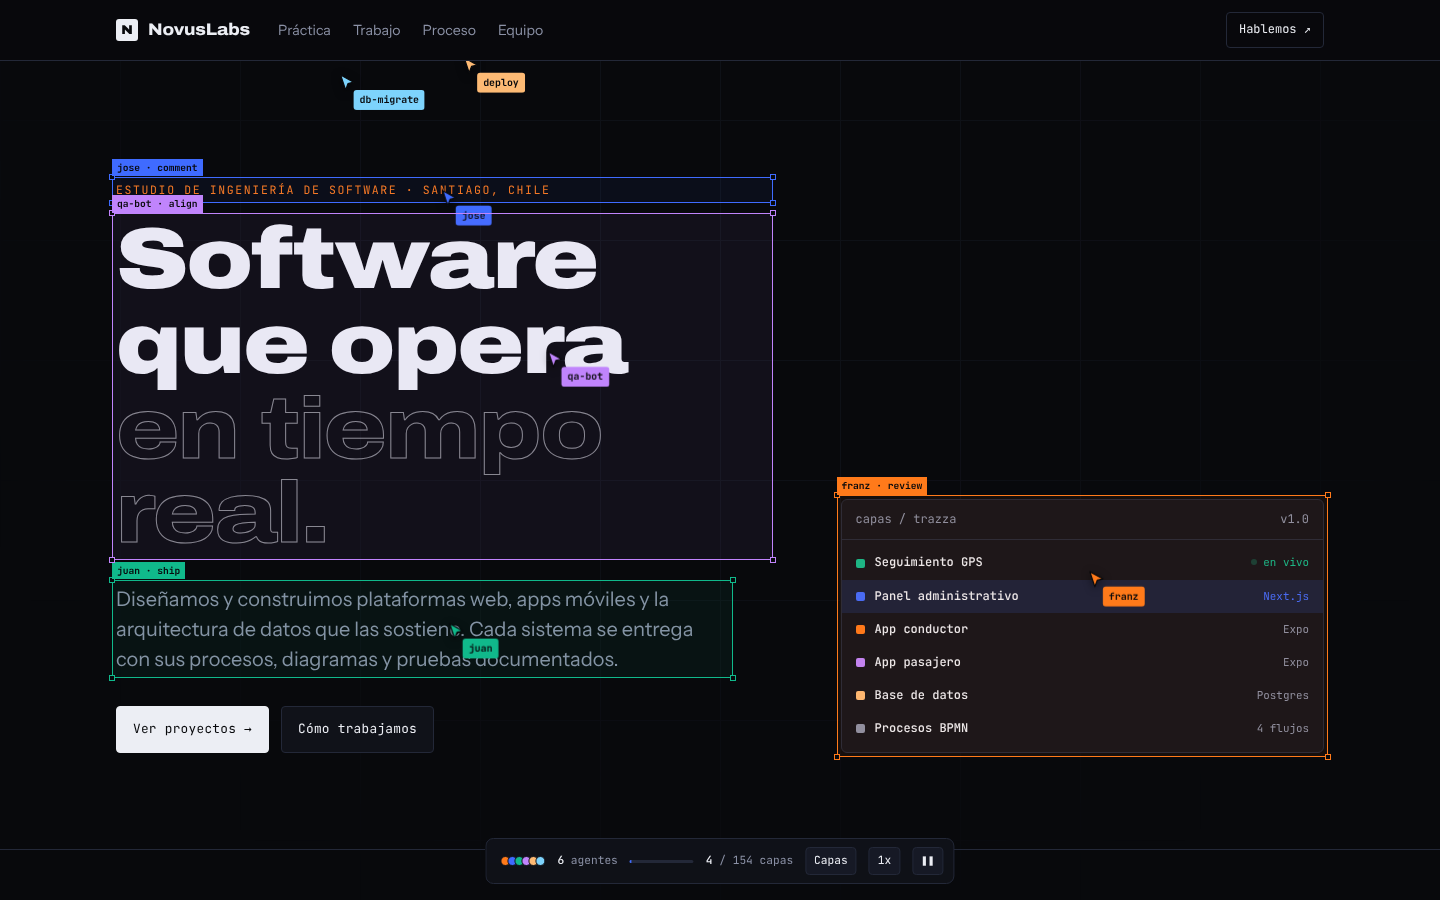
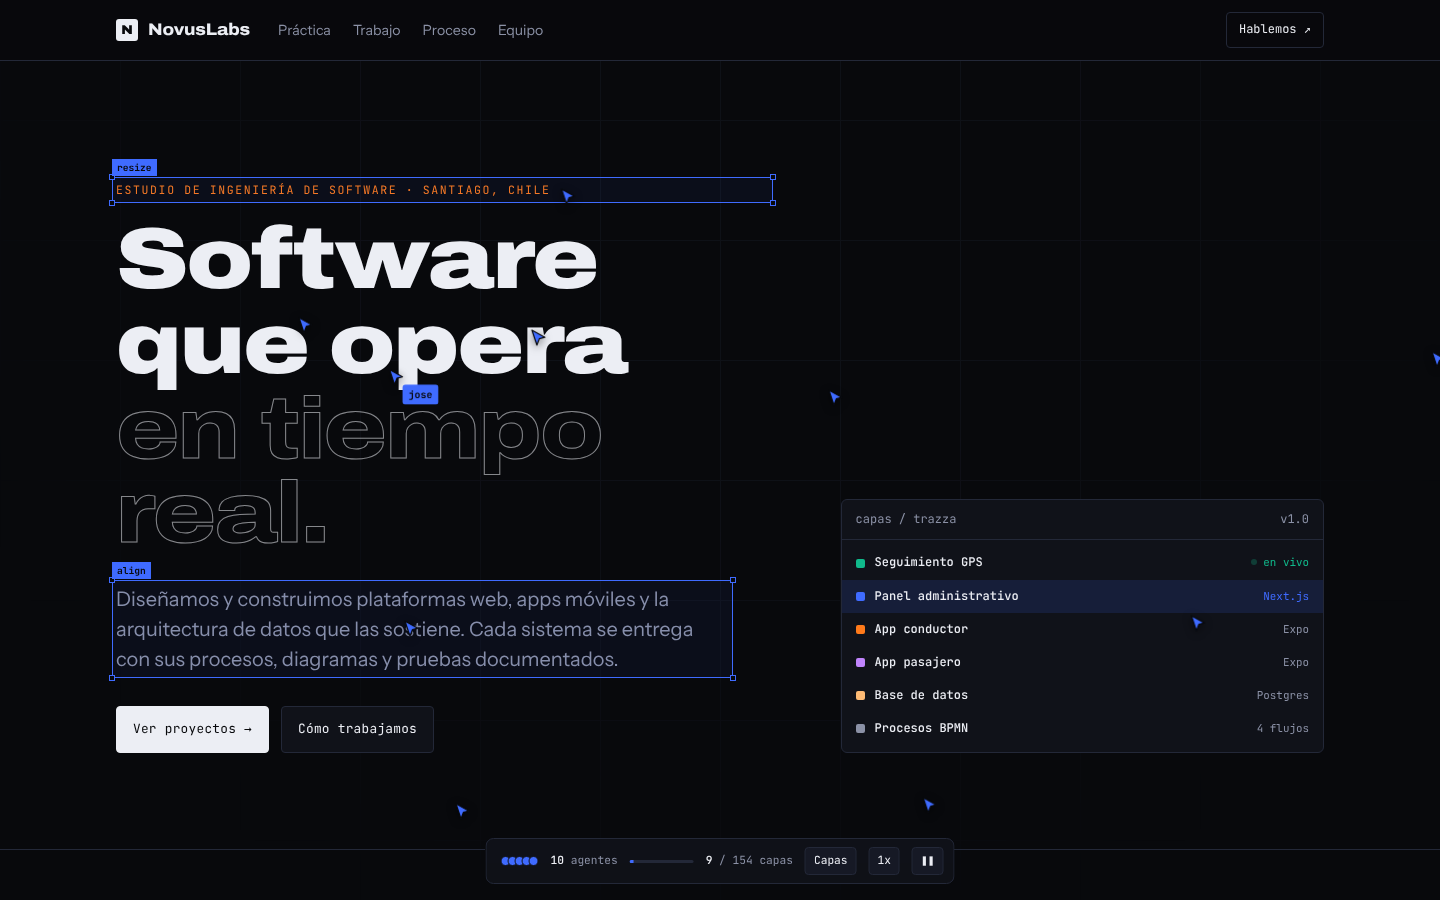
Dejar solo el cursor de José y clones sin nombre
Claude-Session: https://claude.ai/code/session_01FAH7i64zCCiy8n3abzcpGf

diff --git a/NovusLabs/index.html b/NovusLabs/index.html
@@ -523,7 +523,7 @@ body.wire .hero h1 .ghost{-webkit-text-stroke:1px var(--signal)}
 
 <div class="hud" role="toolbar" aria-label="Controles de los agentes">
   <span class="dots" id="hud-dots"></span>
-  <span><b id="hud-count">6</b> agentes</span>
+  <span><b id="hud-count">10</b> agentes</span>
   <span class="bar" aria-hidden="true"><i id="hud-bar"></i></span>
   <span class="lyr"><b id="hud-layers">0</b> / <span id="hud-total">0</span> capas</span>
   <button type="button" id="btn-wire" aria-pressed="false">Capas</button>
@@ -536,14 +536,10 @@ body.wire .hero h1 .ghost{-webkit-text-stroke:1px var(--signal)}
   var reduce = window.matchMedia && matchMedia('(prefers-reduced-motion: reduce)').matches;
   var layer = document.getElementById('agents');
   var targets = Array.prototype.slice.call(document.querySelectorAll('[data-agent]'));
-  var TEAM = [
-    {name:'franz', c:'#ff7a1a'},
-    {name:'jose', c:'#3f6bff'},
-    {name:'juan', c:'#10b98b'},
-    {name:'qa-bot', c:'#c084fc'},
-    {name:'deploy', c:'#fdba74'},
-    {name:'db-migrate', c:'#7dd3fc'}
-  ];
+  var BLUE = '#3f6bff';
+  var CLONES = innerWidth < 640 ? 3 : 9;
+  var TEAM = [{name:'jose', c:BLUE}];
+  for(var k=0;k<CLONES;k++) TEAM.push({name:'', c:BLUE});
   var ACTIONS = ['align','edit text','review','resize','ship','test','refactor','comment'];
   var speed = 1, paused = false, touched = 0;
   document.getElementById('hud-total').textContent = String(targets.length * 7);
@@ -553,14 +549,13 @@ body.wire .hero h1 .ghost{-webkit-text-stroke:1px var(--signal)}
     return '<svg width="16" height="18" viewBox="0 0 16 18"><path d="M1 1l13 7.2-5.6 1.4L6 16z" fill="'+c+'" stroke="#08090c" stroke-width="1.2" stroke-linejoin="round"/></svg>';
   }
 
-  if(innerWidth < 640) TEAM = TEAM.slice(0,3);
   document.getElementById("hud-count").textContent = String(TEAM.length);
 var dots = document.getElementById('hud-dots');
-  TEAM.forEach(function(t){ var i=document.createElement('i'); i.style.background=t.c; dots.appendChild(i); });
+  TEAM.slice(0,5).forEach(function(t){ var i=document.createElement('i'); i.style.background=t.c; dots.appendChild(i); });
   var agents = TEAM.map(function(t, idx){
     var el = document.createElement('div');
     el.className = 'agent';
-    el.innerHTML = cursorSVG(t.c) + '<span style="background:'+t.c+'">'+t.name+'</span>';
+    el.innerHTML = cursorSVG(t.c) + (t.name ? '<span style="background:'+t.c+'">'+t.name+'</span>' : '');
     var sel = document.createElement('div');
     sel.className = 'sel';
     sel.style.setProperty('--c', t.c);
@@ -568,7 +563,7 @@ var dots = document.getElementById('hud-dots');
     layer.appendChild(sel); layer.appendChild(el);
     var x = Math.random()*innerWidth, y = Math.random()*innerHeight;
     el.style.transform = 'translate('+x+'px,'+y+'px)';
-    return {t:t, el:el, sel:sel, target:null, timer:null, delay: idx*450};
+    return {t:t, el:el, sel:sel, target:null, timer:null, delay: idx*300};
   });
 
   function visibleTargets(){
@@ -603,7 +598,7 @@ var dots = document.getElementById('hud-dots');
     a.el.style.transform = 'translate('+x+'px,'+y+'px)';
     a.timer = setTimeout(function(){
       placeSel(a);
-      a.sel.querySelector('em').textContent = a.t.name + ' · ' + ACTIONS[Math.floor(Math.random()*ACTIONS.length)];
+      a.sel.querySelector('em').textContent = (a.t.name ? a.t.name + ' · ' : '') + ACTIONS[Math.floor(Math.random()*ACTIONS.length)];
       a.sel.classList.add('show');
       var g = n.hasAttribute('data-glitch') ? n : n.querySelector('[data-glitch]');
       if(g){ g.classList.remove('glitch'); void g.offsetWidth; g.classList.add('glitch'); }
